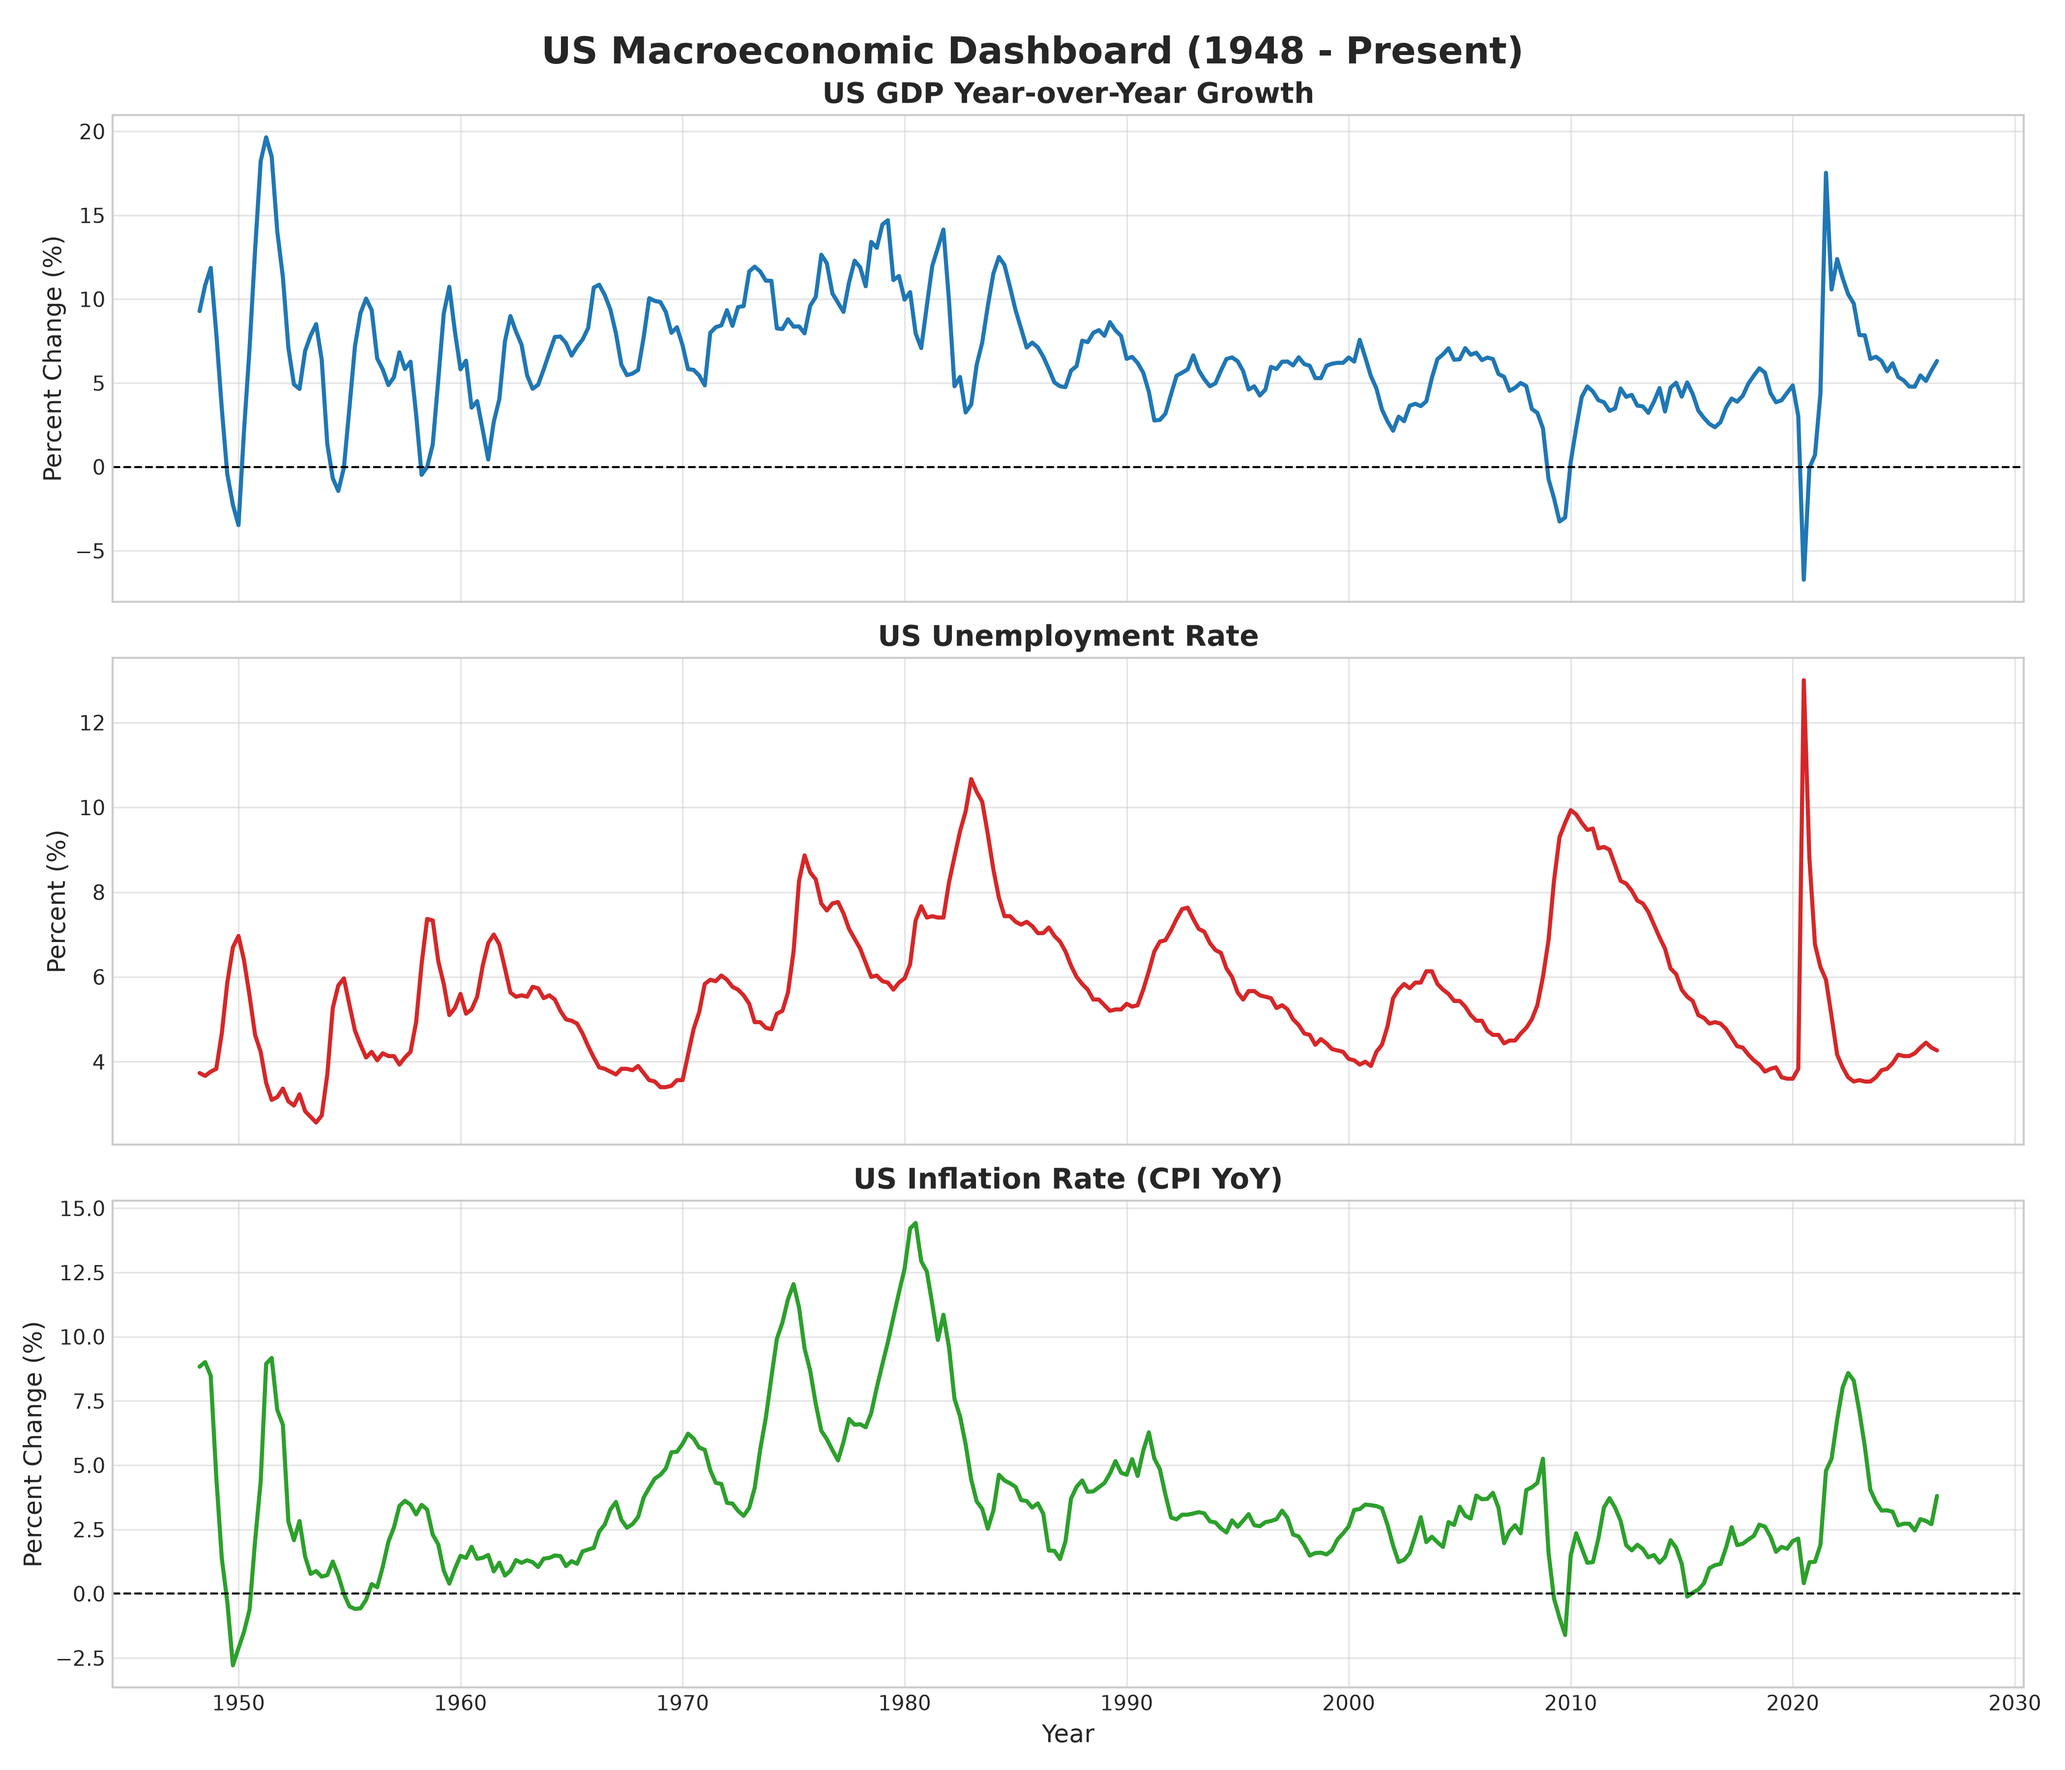
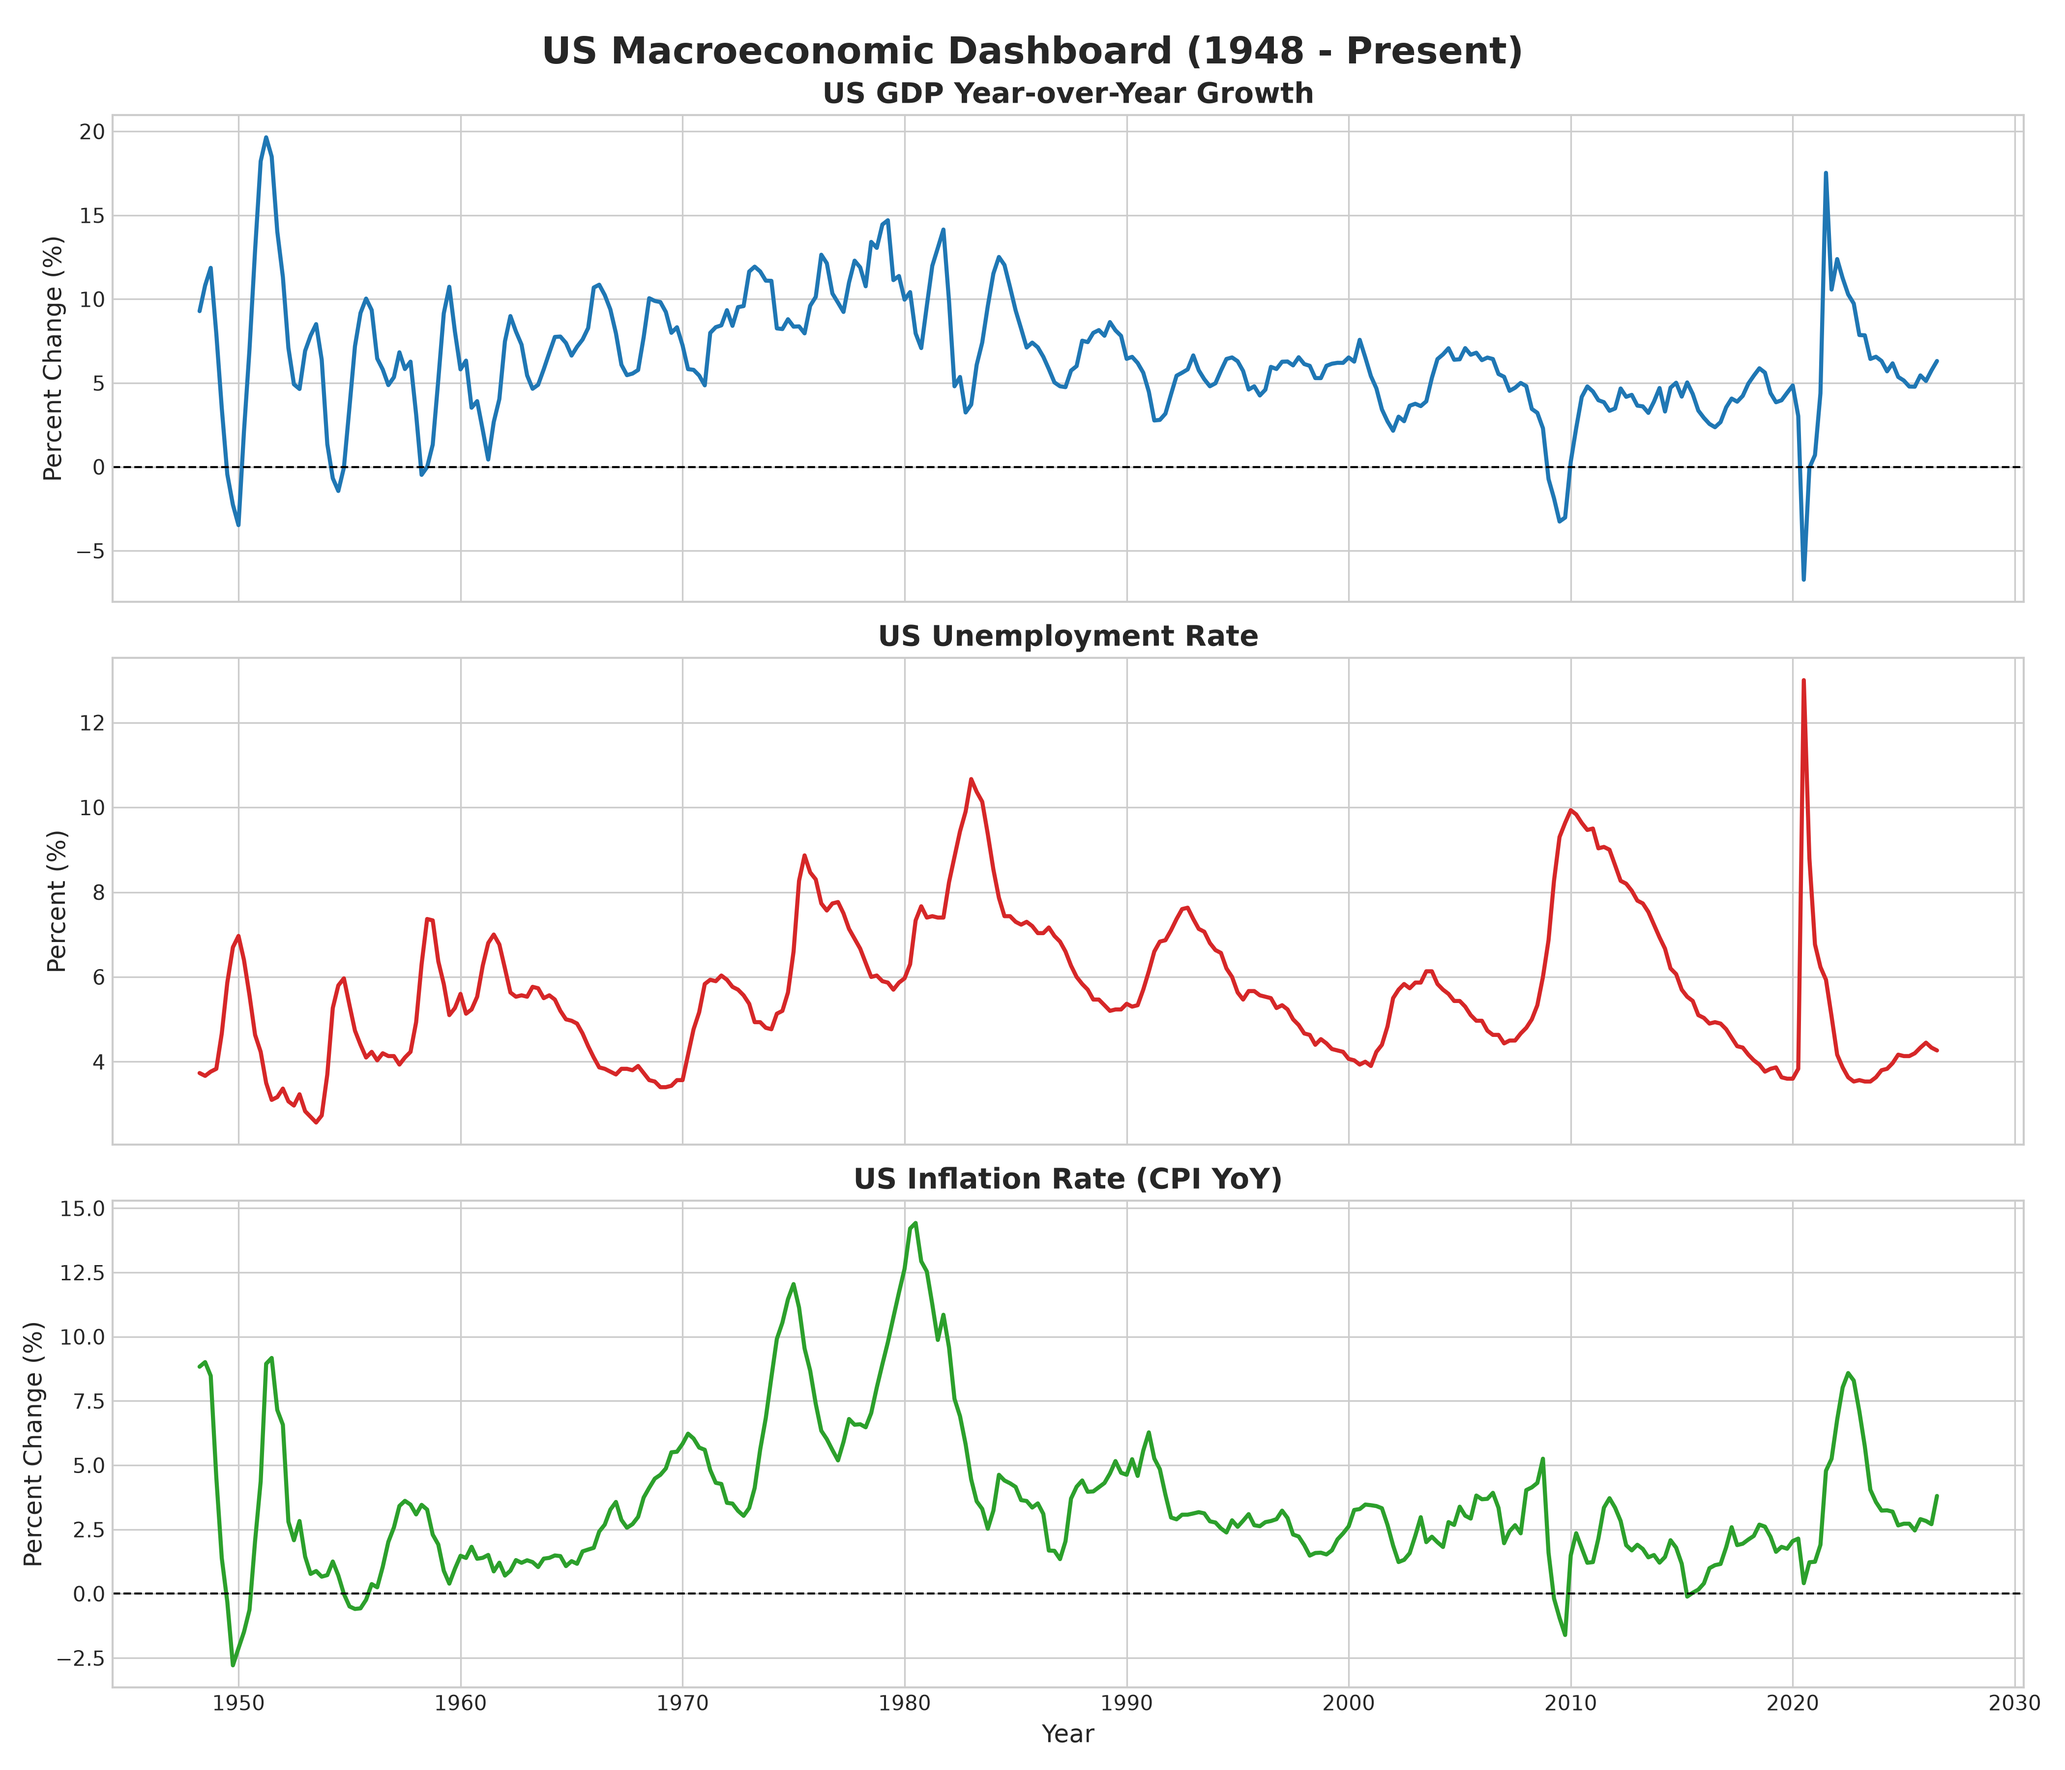
Refactor code into unified master pipeline and add requirements.txt

diff --git a/01_fama_french_1993/code/run_full_pipeline.py b/01_fama_french_1993/code/run_full_pipeline.py
@@ -1,0 +1,102 @@
+"""
+Master Pipeline: Macroeconomic Data
+Author: Paulo Jose Araujo
+Description: A unified, refactored pipeline that fetches, cleans, 
+             and visualizes macroeconomic data in a single run.
+"""
+
+import os
+import pandas as pd
+import matplotlib.pyplot as plt
+from fredapi import Fred
+
+# --- Configuration ---
+SERIES_IDS = {
+    'GDP': 'GDP',
+    'UNRATE': 'UNRATE',
+    'CPIAUCSL': 'CPIAUCSL'
+}
+RAW_DATA_PATH = '01_fama_french_1993/data/macro_data.csv'
+CLEAN_DATA_PATH = '01_fama_french_1993/data/cleaned_macro_data.csv'
+PLOT_PATH = '01_fama_french_1993/output/macro_dashboard.png'
+
+
+def fetch_fred_data(api_key, series_ids, output_path):
+    """Fetches data from FRED API and saves it as a raw CSV."""
+    print("Step 1: Fetching data from FRED...")
+    fred = Fred(api_key=api_key)
+    data_frames = []
+    
+    for name, series_id in series_ids.items():
+        series_data = fred.get_series(series_id)
+        df = pd.DataFrame(series_data, columns=[name])
+        data_frames.append(df)
+        
+    merged_df = pd.concat(data_frames, axis=1, join='outer', sort=False)
+    os.makedirs(os.path.dirname(output_path), exist_ok=True)
+    merged_df.index.name = 'Date'
+    merged_df.to_csv(output_path)
+    print(f"Raw data saved to {output_path}")
+    return merged_df
+
+
+def clean_macro_data(input_path, output_path):
+    """Loads raw data, resamples to quarterly, calculates growth rates, and saves."""
+    print("\nStep 2: Cleaning and transforming data...")
+    df = pd.read_csv(input_path, index_col='Date', parse_dates=True)
+    
+    # Resample to quarterly
+    df_q = df.resample('QE').mean()
+    
+    # Calculate YoY growth rates
+    df_q['GDP_Growth'] = df_q['GDP'].pct_change(periods=4) * 100
+    df_q['Inflation_Rate'] = df_q['CPIAUCSL'].pct_change(periods=4) * 100
+    
+    # Drop NaNs
+    df_clean = df_q.dropna()
+    df_clean.to_csv(output_path)
+    print(f"Cleaned data saved to {output_path}")
+    return df_clean
+
+
+def plot_macro_dashboard(df, output_path):
+    """Generates a multi-panel dashboard of the macroeconomic data."""
+    print("\nStep 3: Generating visualization...")
+    plt.style.use('seaborn-v0_8-whitegrid')
+    fig, axes = plt.subplots(nrows=3, ncols=1, figsize=(14, 12), sharex=True)
+
+    axes[0].plot(df.index, df['GDP_Growth'], color='#1f77b4', linewidth=2)
+    axes[0].axhline(0, color='black', linestyle='--', linewidth=1)
+    axes[0].set_title('US GDP Year-over-Year Growth', fontsize=14, fontweight='bold')
+    axes[0].set_ylabel('Percent Change (%)', fontsize=12)
+
+    axes[1].plot(df.index, df['UNRATE'], color='#d62728', linewidth=2)
+    axes[1].set_title('US Unemployment Rate', fontsize=14, fontweight='bold')
+    axes[1].set_ylabel('Percent (%)', fontsize=12)
+
+    axes[2].plot(df.index, df['Inflation_Rate'], color='#2ca02c', linewidth=2)
+    axes[2].axhline(0, color='black', linestyle='--', linewidth=1)
+    axes[2].set_title('US Inflation Rate (CPI YoY)', fontsize=14, fontweight='bold')
+    axes[2].set_ylabel('Percent Change (%)', fontsize=12)
+    axes[2].set_xlabel('Year', fontsize=12)
+
+    plt.suptitle('US Macroeconomic Dashboard (1948 - Present)', fontsize=18, fontweight='bold', y=0.98)
+    plt.tight_layout()
+    
+    os.makedirs(os.path.dirname(output_path), exist_ok=True)
+    plt.savefig(output_path, dpi=300)
+    print(f"Dashboard saved to {output_path}")
+
+
+if __name__ == "__main__":
+    # Retrieve API Key
+    api_key = os.environ.get('FRED_API_KEY')
+    if not api_key:
+        raise ValueError("FRED_API_KEY environment variable not set.")
+        
+    # Execute the pipeline
+    raw_df = fetch_fred_data(api_key, SERIES_IDS, RAW_DATA_PATH)
+    clean_df = clean_macro_data(RAW_DATA_PATH, CLEAN_DATA_PATH)
+    plot_macro_dashboard(clean_df, PLOT_PATH)
+    
+    print("\nPipeline executed successfully!")

diff --git a/01_fama_french_1993/README.md b/01_fama_french_1993/README.md
@@ -1,0 +1,4 @@
+## How to Run
+1. Ensure your FRED API key is set as an environment variable.
+2. Install dependencies: `pip install -r 01_fama_french_1993/requirements.txt`
+3. Run the master pipeline: `python 01_fama_french_1993/code/run_full_pipeline.py`
